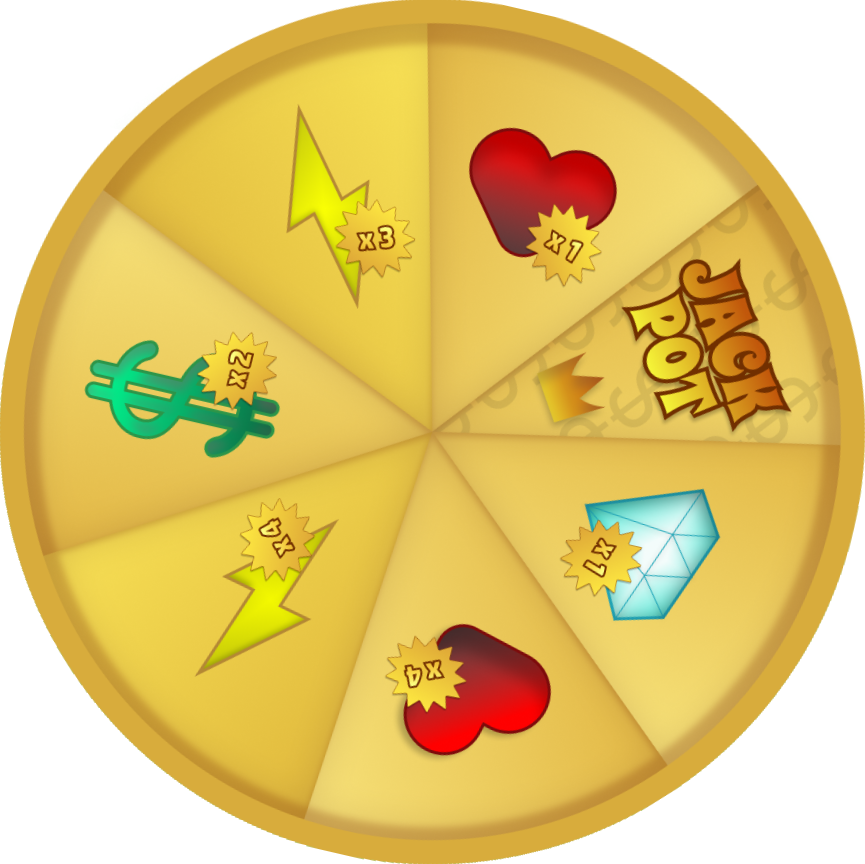
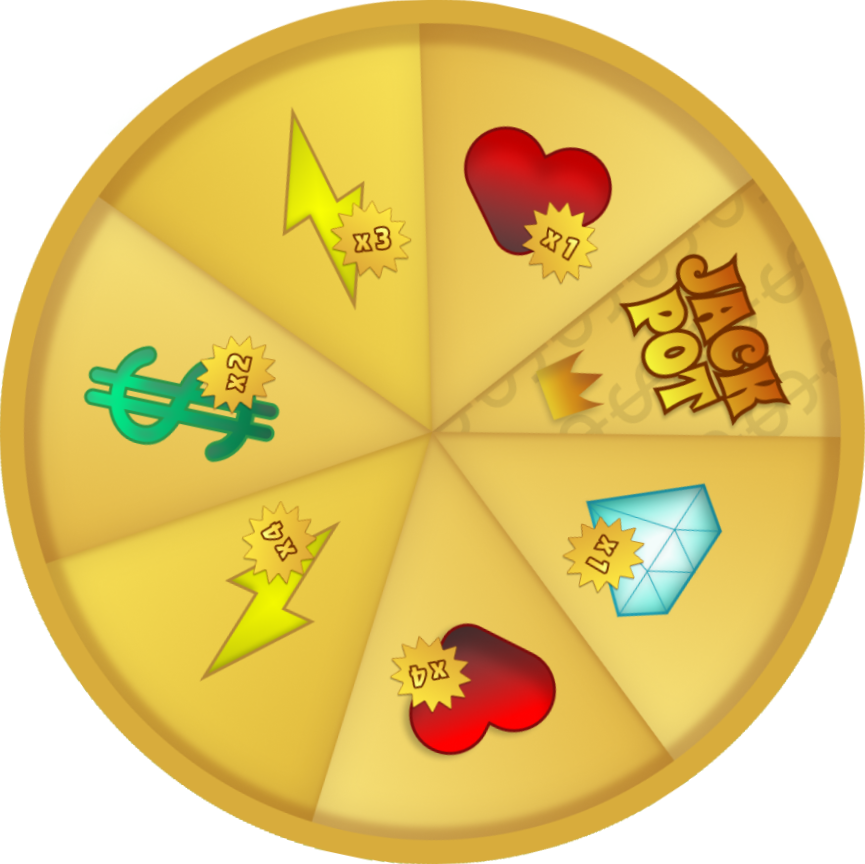
Add background image, change spin_wheel_filled.png angle

diff --git a/lib/screens/home_screen.dart b/lib/screens/home_screen.dart
@@ -1,4 +1,5 @@
 import 'package:flutter/material.dart';
+import 'package:spin_wheel_game/assets.dart';
 import 'package:spin_wheel_game/widgets/spin_wheel_game.dart';
 
 class HomeScreen extends StatelessWidget {
@@ -6,8 +7,16 @@ class HomeScreen extends StatelessWidget {
 
   @override
   Widget build(BuildContext context) {
-    return const Scaffold(
-      body: SpinWheelGame(),
+    return Scaffold(
+      body: Container(
+        decoration: const BoxDecoration(
+          image: DecorationImage(
+            image: AssetImage(backgroundImage),
+            fit: BoxFit.cover,
+          ),
+        ),
+        child: const SpinWheelGame(),
+      ),
     );
   }
 }

diff --git a/lib/assets.dart b/lib/assets.dart
@@ -1,3 +1,5 @@
+const backgroundImage = 'assets/images/background.png';
+
 const fortuneWheelTitle = 'assets/images/fortune_wheel_title.png';
 const spinButton = 'assets/images/spin_button.png';
 const spinButtonPressed = 'assets/images/spin_button_pressed.png';
